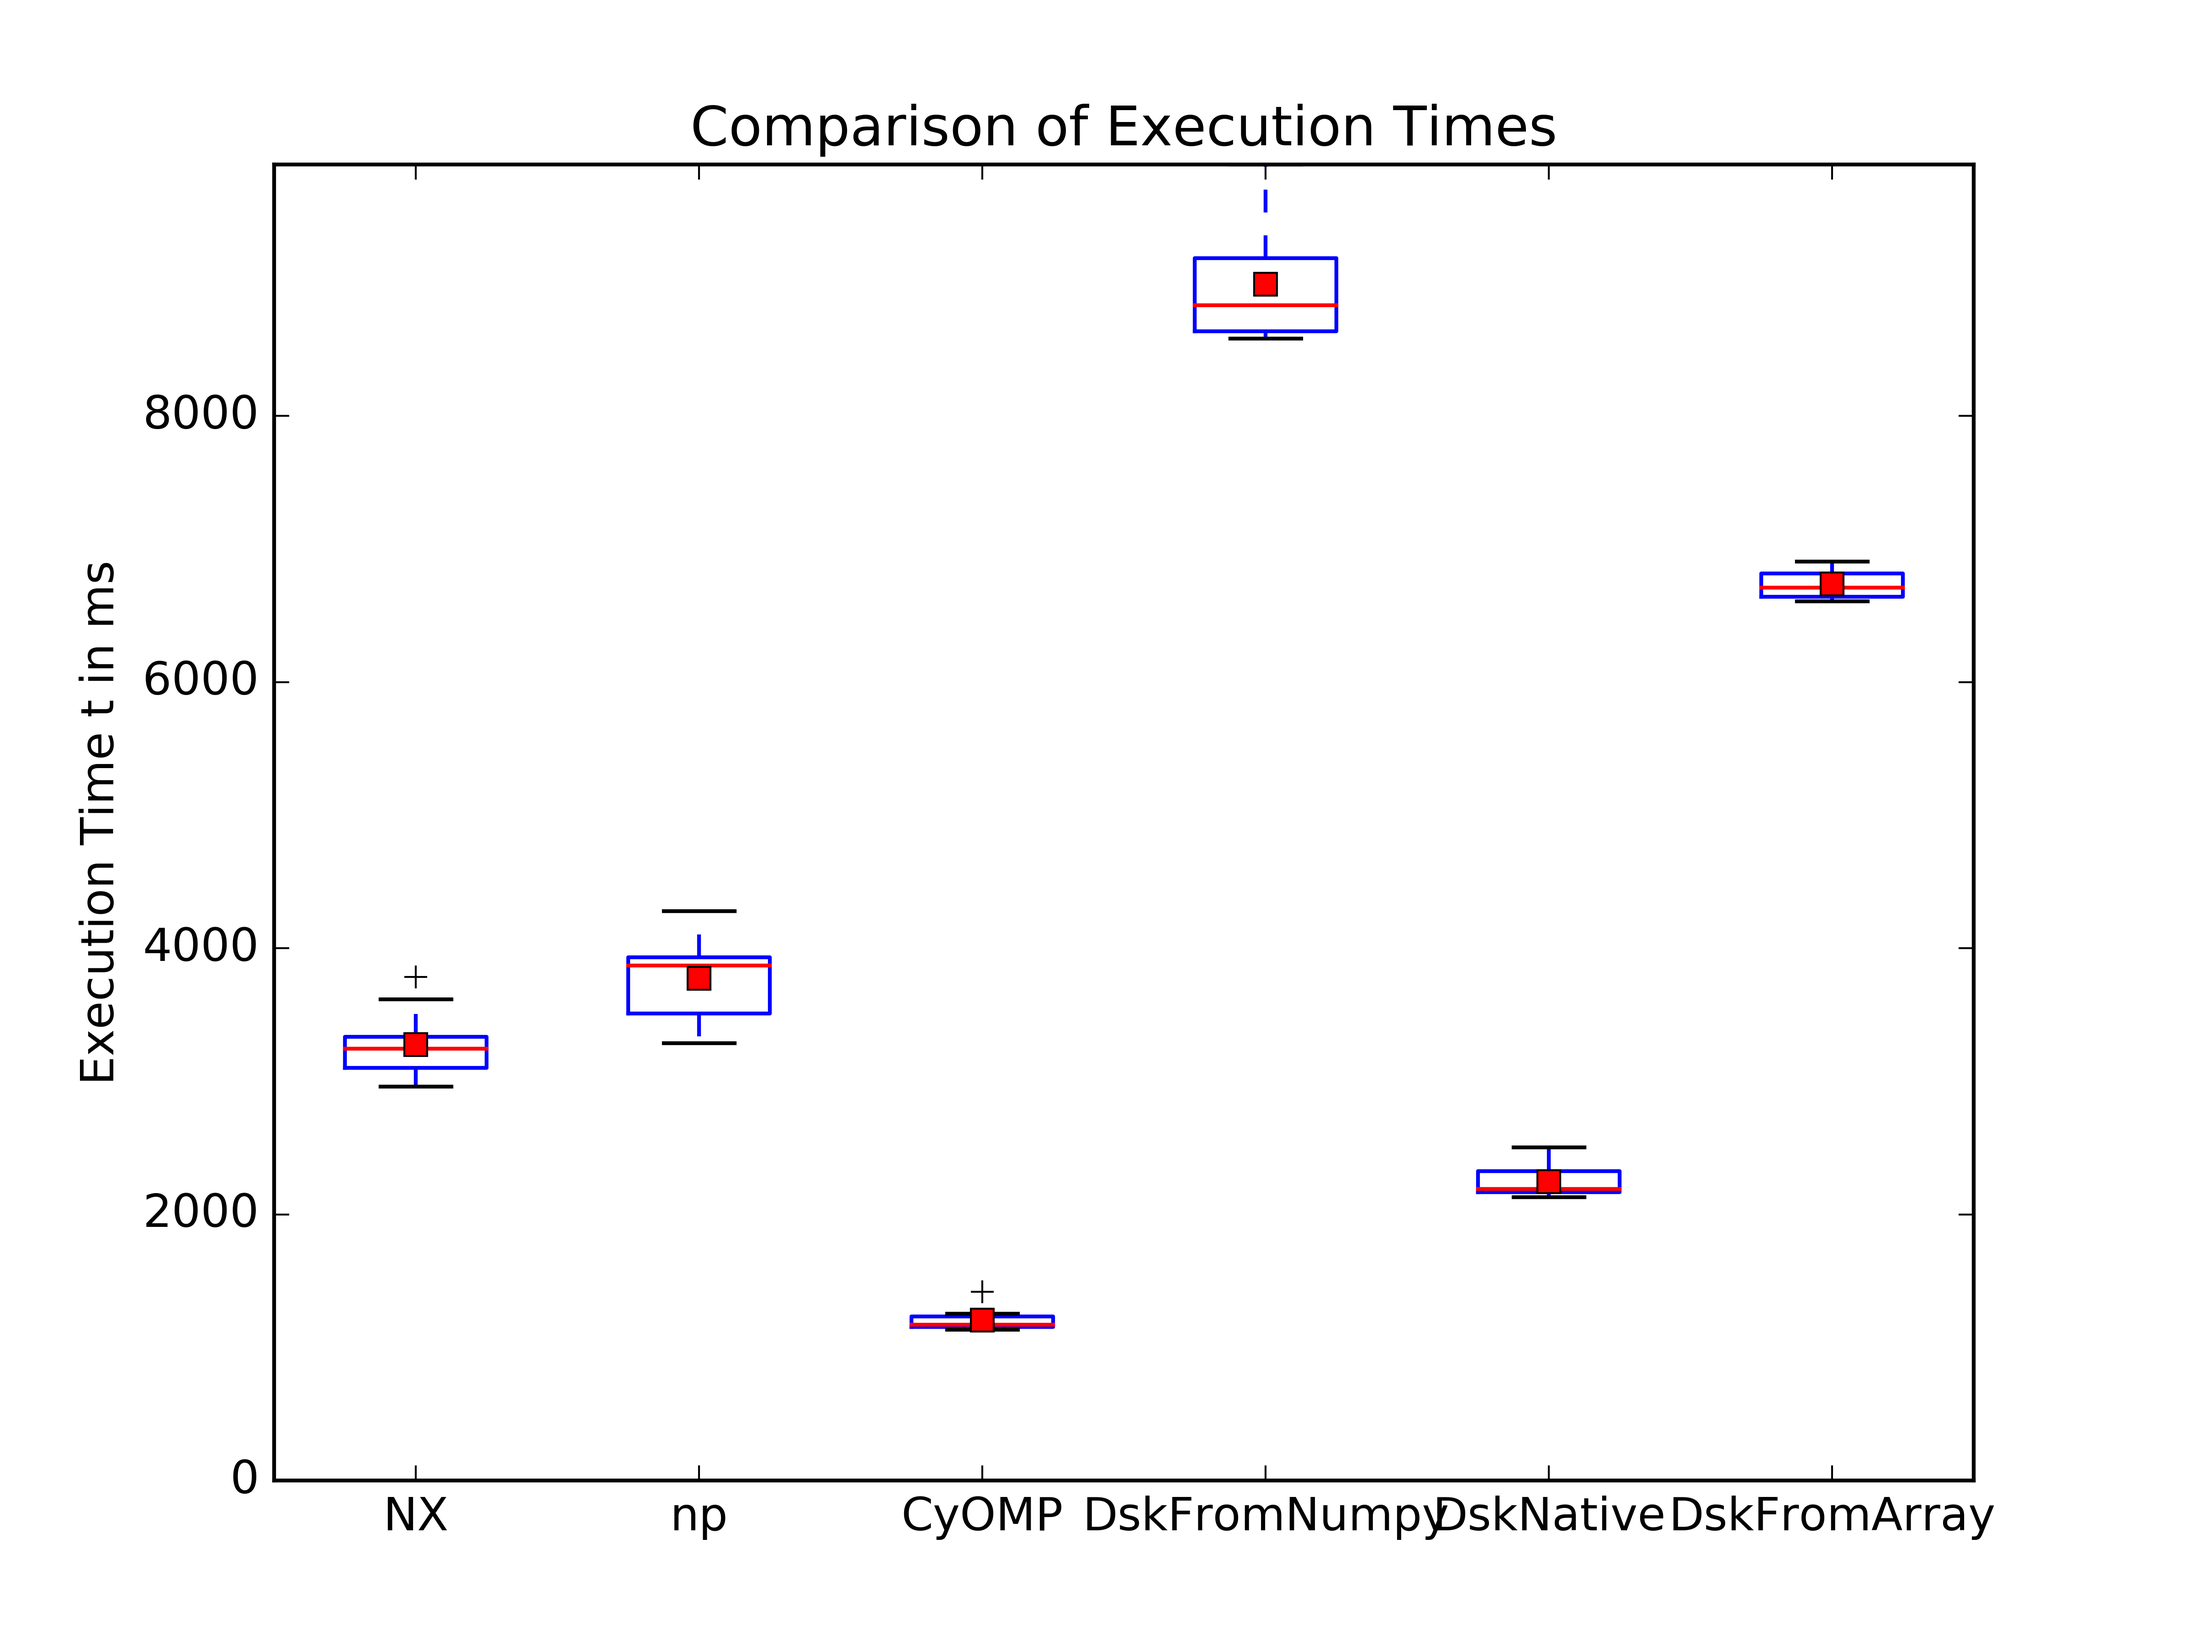
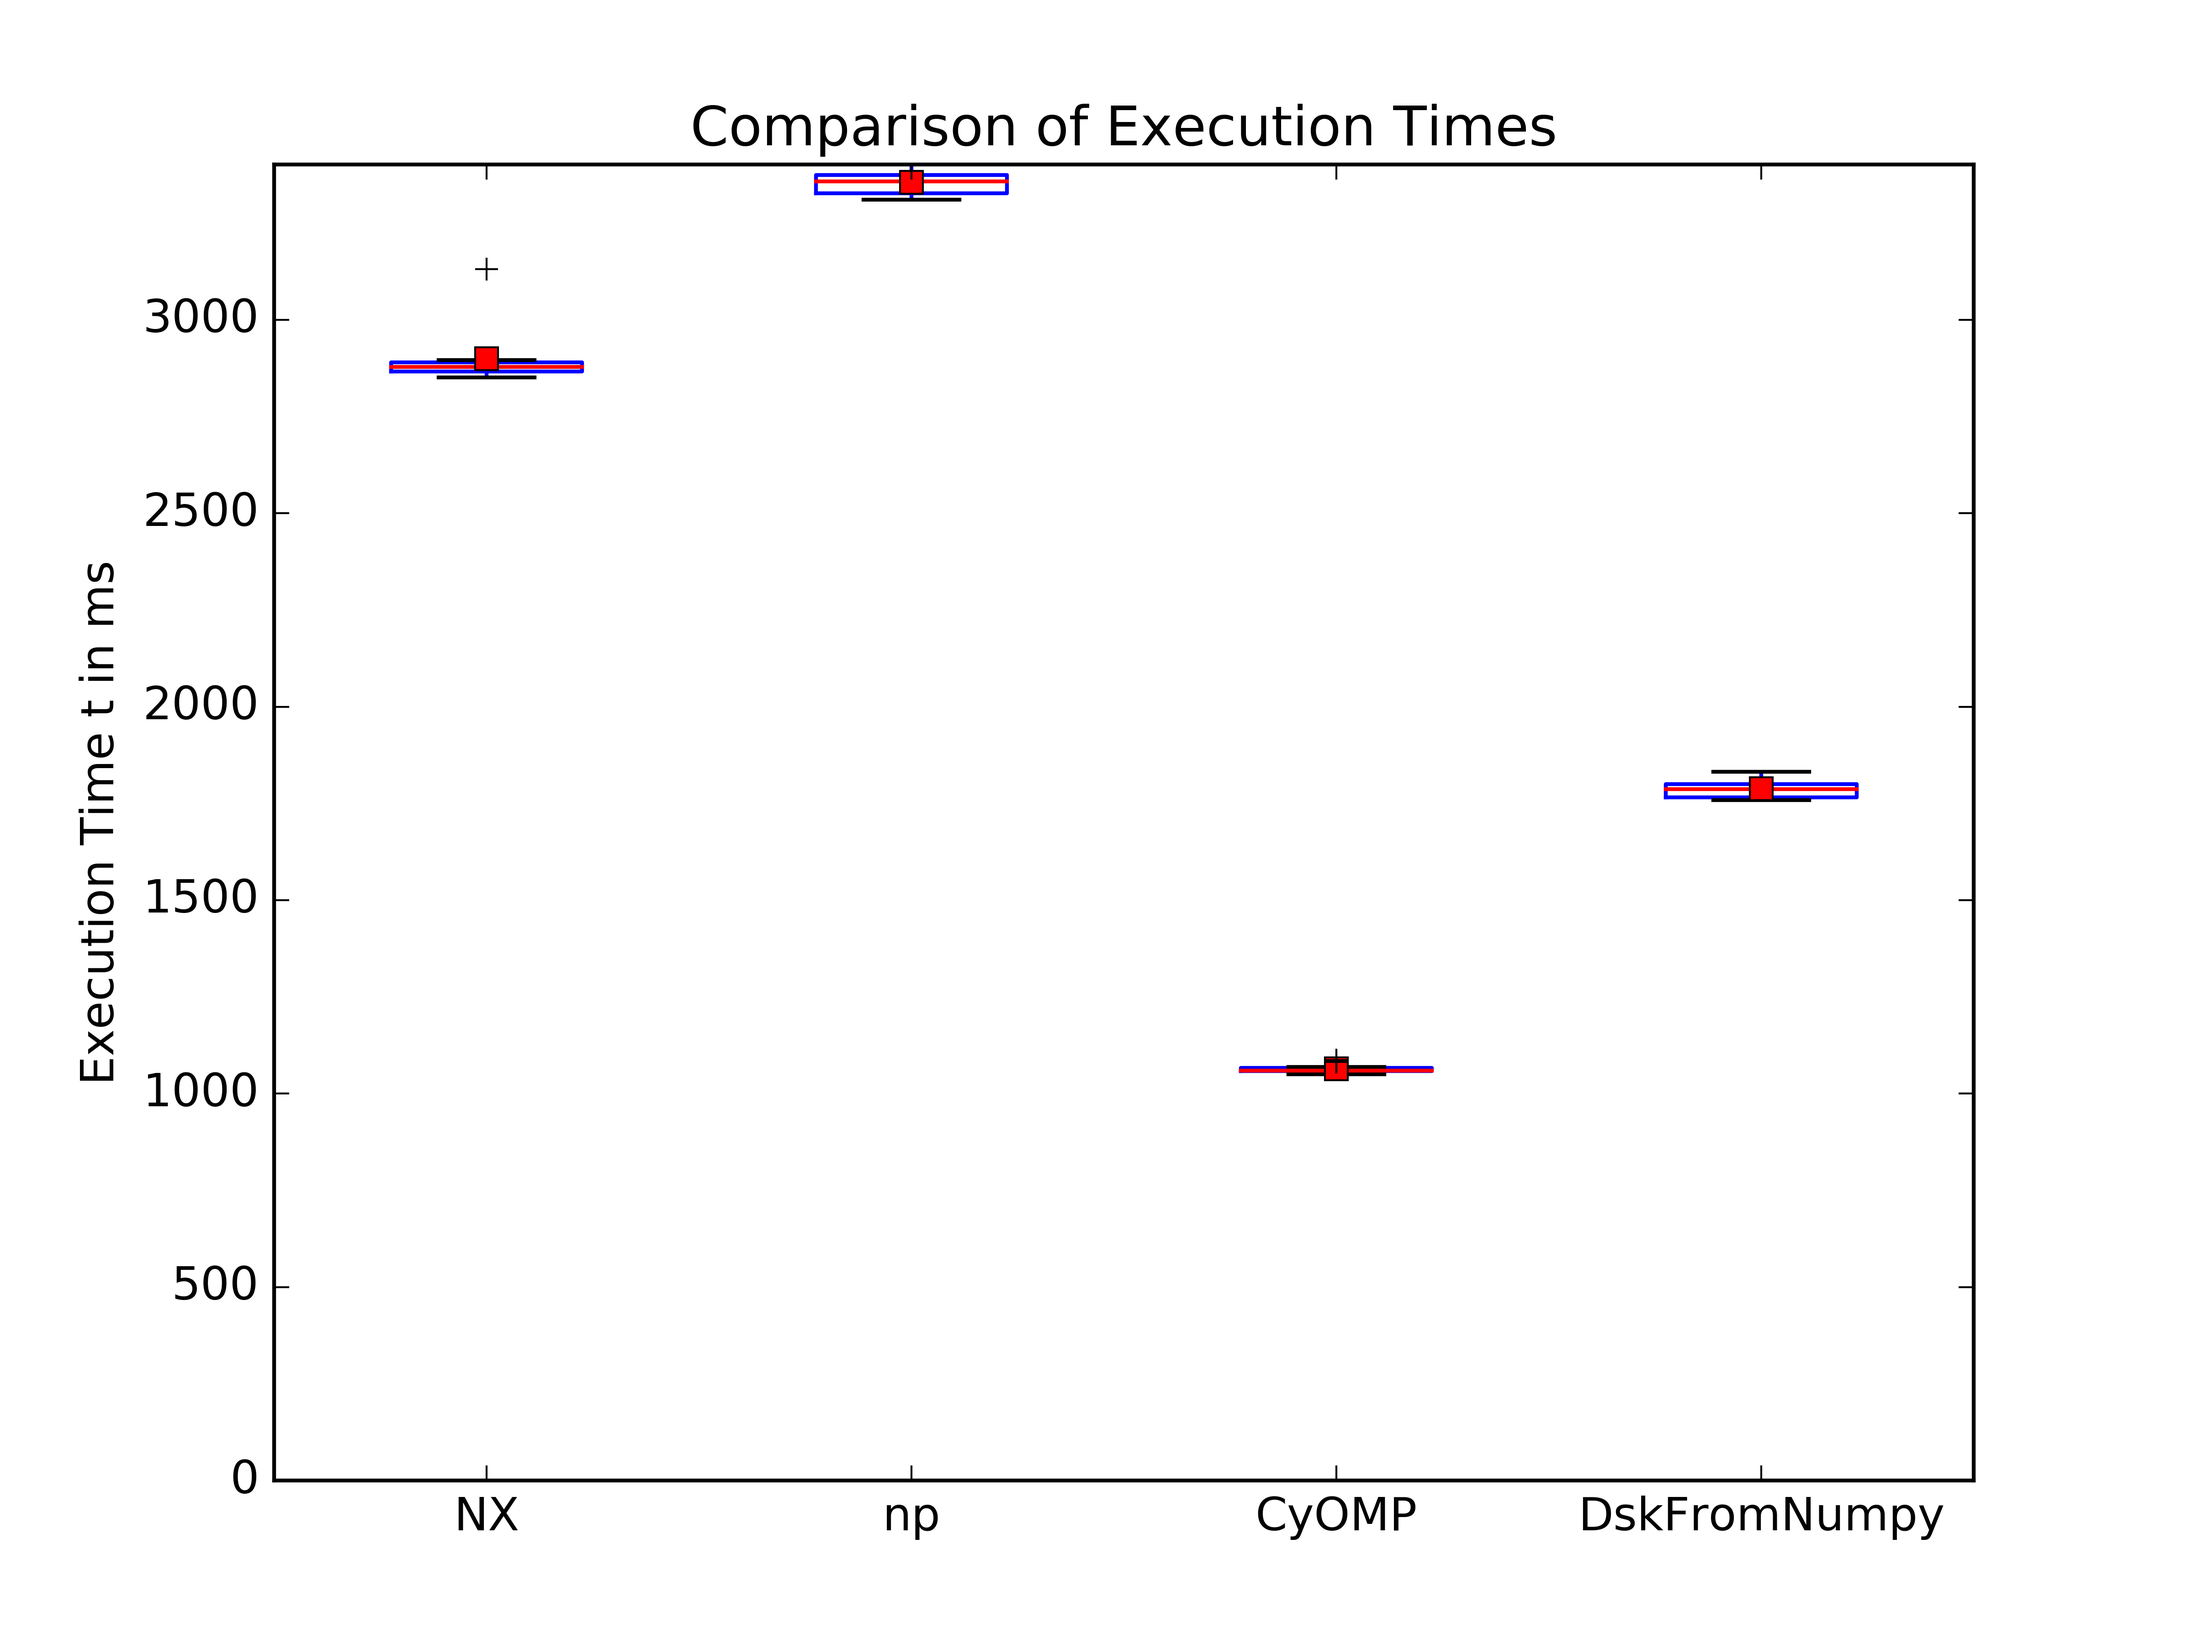
Use `name` argument for dask from_array method, to avoid hashing of data.
Also:

- Reduce dask tests to one data point, as there is no need to benchmark
  from_array differently any more.

- in plots, choose better y-limits

diff --git a/test_dask_perf.py b/test_dask_perf.py
@@ -52,22 +52,10 @@ def cython_openmp(arr):
 
 @wall_times
 def dask_(arr):
-    darr = da.from_array(arr, chunks=arr.shape[0] / CPU_COUNT)
+    darr = da.from_array(arr, chunks=arr.shape[0] / CPU_COUNT, name='x')
     mx = darr.max()
     x = (darr / mx).sum() * mx
     x.compute()
-
-
-@wall_times
-def dask_native(darr):
-    mx = darr.max()
-    x = (darr / mx).sum() * mx
-    x.compute()
-
-
-@wall_times
-def dask_no_computation(arr):
-    darr = da.from_array(arr, chunks=arr.shape[0] / CPU_COUNT)
 
 
 @wall_times
@@ -82,19 +70,13 @@ class TestPerformance(unittest.TestCase):
         cls.perfs = OrderedDict()
         N = 5e8
         cls.x = np.random.poisson(10, size=int(N)) * 1.
-        cls.dx = da.from_array(cls.x, chunks=cls.x.shape[0] / CPU_COUNT)
+        cls.dx = da.from_array(cls.x, chunks=cls.x.shape[0] / CPU_COUNT, name='x')
 
     def testNumpy(self):
         numpy_(self.x, self.perfs, "np")
 
     def test_dask(self):
         dask_(self.x, self.perfs, "DskFromNumpy")
-
-    def testdask_from_array_only(self):
-        dask_no_computation(self.x, self.perfs, "DskFromArray")
-
-    def test_dask_native(self):
-        dask_native(self.dx, self.perfs, "DskNative")
 
     def testNumexpr(self):
         numexpr_(self.x, self.perfs, "NX")
@@ -108,7 +90,10 @@ class TestPerformance(unittest.TestCase):
                     .reshape((len(cls.perfs), -1))
 
         plt.boxplot(timings.T, labels=list(cls.perfs.keys()), showmeans=True)
-        plt.ylim((0, timings.max()))
+        mx = np.percentile(timings, 97, axis=1)
+        print(mx)
+        assert len(mx) == len(list(cls.perfs.keys()))
+        plt.ylim((0, np.max(mx)))
 
         plt.title("Comparison of Execution Times")
         plt.ylabel("Execution Time t in ms")
